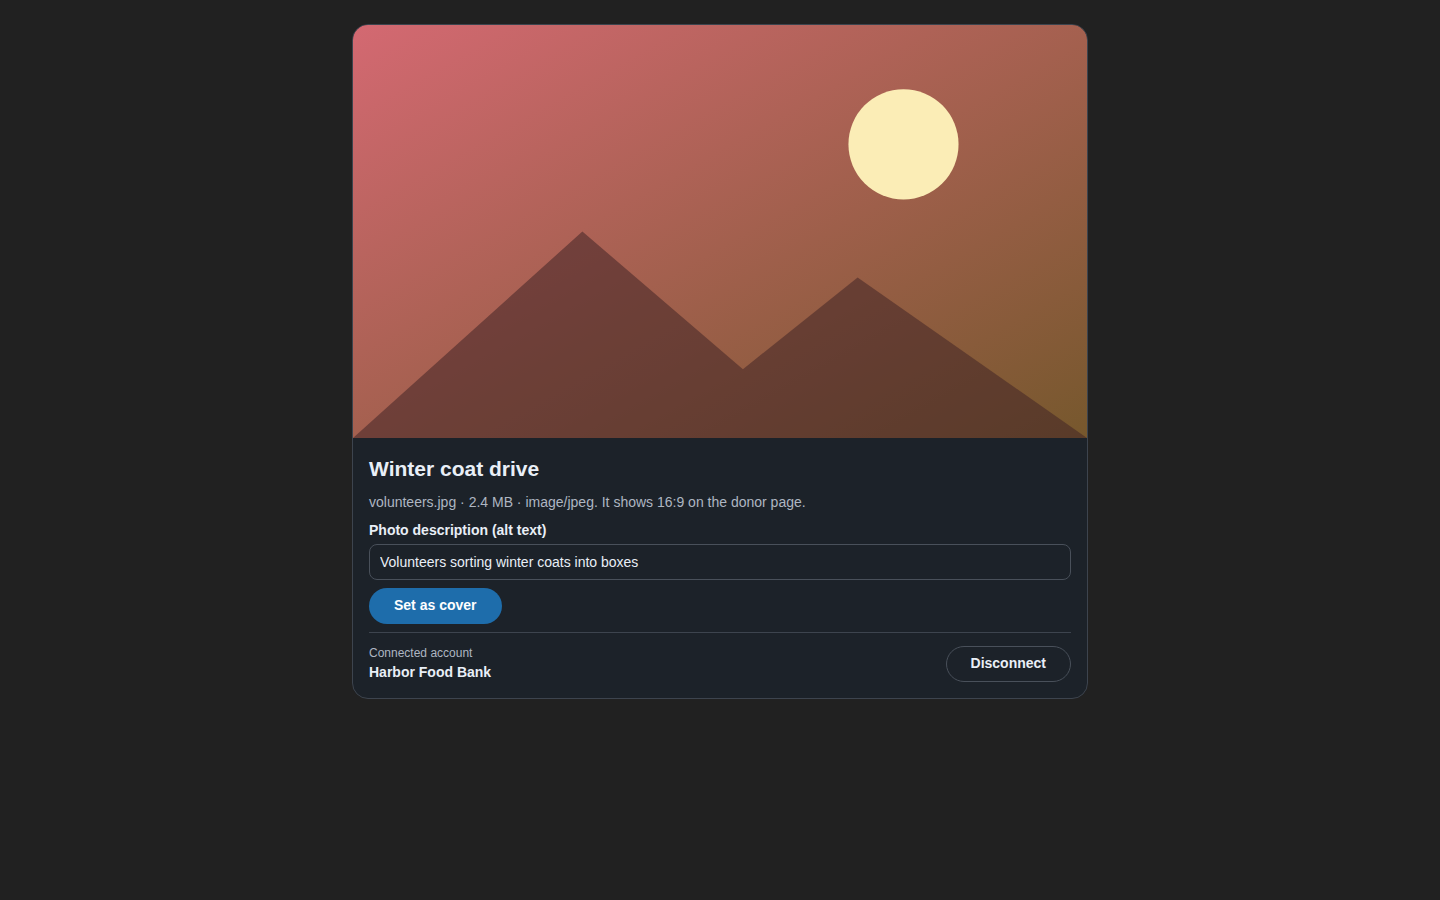
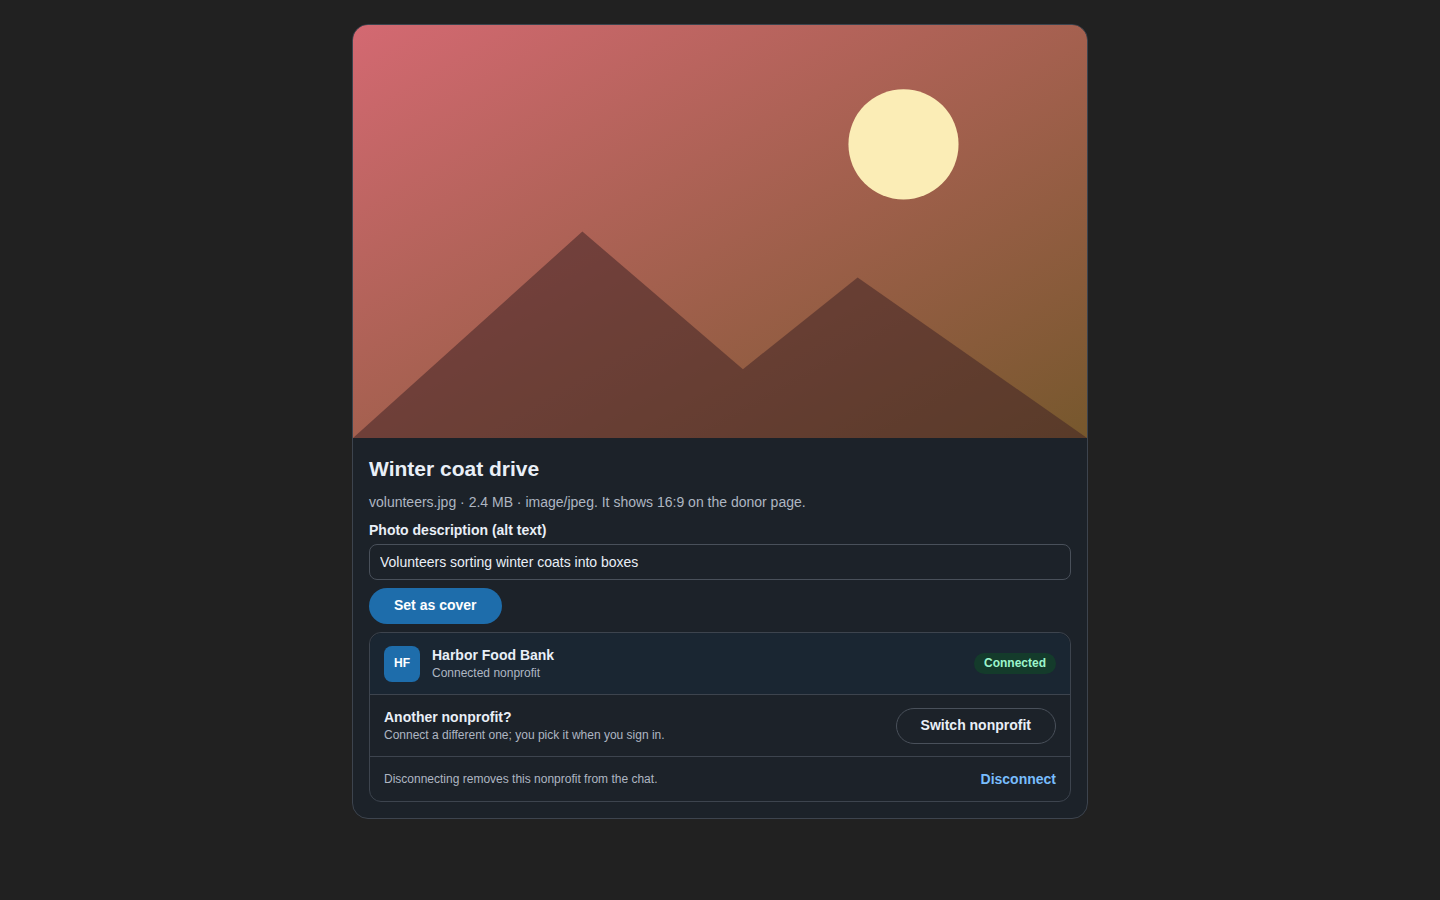
Restyle the account panel and offer a real way to switch nonprofits
The panel shows the connected nonprofit with its initials and a Connected
pill, a Switch nonprofit row, and Disconnect. No list of other nonprofits is
shown: nothing the connector can read returns a person's other nonprofits or
roles, so Switch asks the chat to start the host's connect flow instead.

Changed region(s): [[0.25, 0.7156, 0.4688, 0.8711], [0.625, 0.7156, 0.75, 0.8711]]

diff --git a/src/widgets/photo/photo.tsx b/src/widgets/photo/photo.tsx
@@ -13,31 +13,87 @@ const kilobytes = (bytes: number, locale: string) =>
 		? `${new Intl.NumberFormat(locale, { maximumFractionDigits: 1 }).format(bytes / 1_000_000)} MB`
 		: `${new Intl.NumberFormat(locale, { maximumFractionDigits: 0 }).format(bytes / 1000)} KB`;
 
-/** The connected account: its name, and where to disconnect it. */
+const initials = (name: string) =>
+	name
+		.split(/\s+/)
+		.filter(Boolean)
+		.slice(0, 2)
+		.map((w) => [...w][0]?.toUpperCase() ?? "")
+		.join("");
+
+/**
+ * The connected account. The service knows one nonprofit per connection and
+ * no list of the person's others, so switching asks the chat to start the
+ * host's own connect flow, where the next nonprofit is picked.
+ */
 function Account() {
 	const { host } = useSession();
 	const [name, setName] = useState<string | null>(null);
+	const [error, setError] = useState<string | null>(null);
 	useEffect(() => {
 		void callTool(host, "get_profile", {}).then((res) => {
 			if (res.ok) setName(res.data.name);
 		});
 	}, [host]);
+	const ask = (prompt: string) => {
+		setError(null);
+		host
+			.sendFollowUp(prompt)
+			.catch(() =>
+				setError("Couldn't ask the chat. Ask it in your own words instead."),
+			);
+	};
 	return (
-		<section class="account" aria-label="Connected account">
-			<div>
-				<p class="account-label">Connected account</p>
-				<p class="account-name">{name ?? "…"}</p>
+		<section class="account" aria-label="Account">
+			<div class="account-row account-current">
+				<span class="avatar" aria-hidden="true">
+					{name ? initials(name) : ""}
+				</span>
+				<div class="account-who">
+					<p class="account-name">{name ?? "…"}</p>
+					<p class="account-label">Connected nonprofit</p>
+				</div>
+				<span class="connected-pill">Connected</span>
 			</div>
-			<Button
-				variant="secondary"
-				onClick={() =>
-					void host.sendFollowUp(
-						"I want to disconnect Better Giving from this chat. Where do I do that?",
-					)
-				}
-			>
-				Disconnect
-			</Button>
+			<div class="account-row">
+				<div class="account-who">
+					<p class="account-name">Another nonprofit?</p>
+					<p class="account-label">
+						Connect a different one; you pick it when you sign in.
+					</p>
+				</div>
+				<Button
+					variant="secondary"
+					onClick={() =>
+						ask(
+							"I want to connect a different Better Giving nonprofit. Walk me through switching.",
+						)
+					}
+				>
+					Switch nonprofit
+				</Button>
+			</div>
+			<div class="account-row account-foot">
+				<span class="account-label">
+					Disconnecting removes this nonprofit from the chat.
+				</span>
+				<button
+					type="button"
+					class="link-btn"
+					onClick={() =>
+						ask(
+							"I want to disconnect Better Giving from this chat. Where do I do that?",
+						)
+					}
+				>
+					Disconnect
+				</button>
+			</div>
+			{error && (
+				<p class="error-line" role="alert">
+					{error}
+				</p>
+			)}
 		</section>
 	);
 }

diff --git a/src/widgets/photo/photo.test.tsx b/src/widgets/photo/photo.test.tsx
@@ -3,7 +3,7 @@
 import { describe, expect, it, vi } from "vitest";
 import { PHOTO } from "../../../test/widget-host/fixtures";
 import { PhotoData } from "../model";
-import { startHost } from "../test-dom";
+import { flush, startHost } from "../test-dom";
 import { renderWidget } from "../ui/widget";
 import { PhotoCard } from "./photo";
 
@@ -28,7 +28,7 @@ async function show(data: PhotoData) {
 			"Harbor Food Bank",
 		),
 	);
-	return { root, called };
+	return { root, called, bridge };
 }
 
 const button = (root: HTMLElement, text: string) => {
@@ -52,6 +52,23 @@ describe("photo card", () => {
 			),
 		);
 		expect(called.map((c) => c.name)).toContain("app_set_campaign_photo");
+	});
+
+	it("shows the connected nonprofit and asks the chat to start a switch or a disconnect, with no invented org list", async () => {
+		const { root, bridge } = await show(PHOTO);
+		const asked: string[] = [];
+		bridge.onmessage = async (params: unknown) => {
+			asked.push(JSON.stringify(params));
+			return {};
+		};
+		expect(root.querySelector(".avatar")?.textContent).toBe("HF");
+		expect(root.querySelector(".connected-pill")?.textContent).toBe(
+			"Connected",
+		);
+		expect(root.querySelectorAll(".account-row").length).toBe(3);
+		button(root, "Switch nonprofit").click();
+		await flush(10);
+		expect(asked.join()).toContain("different Better Giving nonprofit");
 	});
 
 	it("offers the upload link where the host takes no file", async () => {

diff --git a/src/widgets/photo/photo.css b/src/widgets/photo/photo.css
@@ -12,15 +12,52 @@
 
 .account {
 	display: flex;
-	align-items: center;
-	justify-content: space-between;
-	gap: 12px;
-	padding-top: 12px;
-	border-top: 1px solid var(--gray-6);
+	flex-direction: column;
+	border: 1px solid var(--border);
+	border-radius: 12px;
 }
 
 .account p {
 	margin: 0;
+}
+
+.account-row {
+	display: flex;
+	align-items: center;
+	justify-content: space-between;
+	gap: 12px;
+	padding: 12px 14px;
+}
+
+.account-row + .account-row {
+	border-top: 1px solid var(--border);
+}
+
+.account-current {
+	background: var(--band);
+	border-radius: 12px 12px 0 0;
+}
+
+.account-who {
+	flex: 1;
+	min-width: 0;
+}
+
+.avatar {
+	display: grid;
+	width: 36px;
+	height: 36px;
+	flex: none;
+	place-items: center;
+	background: var(--primary);
+	border-radius: 8px;
+	color: var(--primary-fg);
+	font-size: var(--text-xs);
+	font-weight: 700;
+}
+
+.account-name {
+	font-weight: 700;
 }
 
 .account-label {
@@ -28,6 +65,21 @@
 	font-size: var(--text-xs);
 }
 
-.account-name {
+.connected-pill {
+	padding: 2px 10px;
+	background: var(--success-subtle);
+	border-radius: 9999px;
+	color: var(--green-12);
+	font-size: var(--text-xs);
+	font-weight: 700;
+}
+
+.link-btn {
+	padding: 0;
+	background: none;
+	border: 0;
+	color: var(--blue-11);
+	font: inherit;
 	font-weight: 600;
+	cursor: pointer;
 }

diff --git a/test/widget-host/fixtures.ts b/test/widget-host/fixtures.ts
@@ -350,6 +350,16 @@ export const FIXTURES: Partial<Record<WidgetName, Record<string, Fixture>>> = {
 				}),
 			},
 		},
+		account: {
+			result: {
+				structuredContent: { ...PHOTO, file: null, canUpload: false },
+			},
+			calls: {
+				get_profile: () => ({
+					structuredContent: { id: "u1", name: "Bayanihan Relief Network" },
+				}),
+			},
+		},
 		none: {
 			result: {
 				structuredContent: { ...PHOTO, file: null, canUpload: false },

diff --git a/docs/widget-screenshots/README.md b/docs/widget-screenshots/README.md
@@ -32,7 +32,12 @@ Compared against `01`-`04` of the approved mockups. The chat shell around each c
 - No undo button and no character counter.
 - The composer and the assistant's last reply are drawn by the host.
 
-**05 Photo card.** Not part of this pass: unchanged from the earlier notes. Adjust crop is not built, and the account section shows the connected nonprofit and Disconnect only.
+**05 Photo card and account panel.** Matches: the 16:9 cover with file details, editable alt text and Set as cover; an account panel with the connected nonprofit (initials tile, name, "Connected" pill) and a Disconnect link. States: `account` is the panel under the current cover with no dropped photo.
+- No list of other nonprofits, no roles and no "View only" label. Nothing the connector can read returns a person's other nonprofits or roles: the site's `/connector/v1` has no such action, hello names one nonprofit, and a connection is one key for one site. So the mockup's Cebu Food Bank and Malinao School Fund rows, the per-row Switch buttons and "Signed in as <email>" are not built, and none is invented.
+- The closest real thing: a "Switch nonprofit" row. It asks the chat to walk the person through connecting a different nonprofit; the host's connect flow then asks for the site, and the new connection replaces the old one.
+- Disconnect also asks the chat, because removing the connector is the host's own action.
+- The mockup's connected row also shows the person's role and the site's address; the connector does not hold either for display.
+- Adjust crop is not built (the upload sends the file as it is).
 
 ## Across all widgets
 - Widget UI uses the system font and host radii; brand colour carries the meaning, as DESIGN.md says. The dark half is the repo's own addition (Platform's palette is light only); the donor-page preview stays light in dark hosts.
